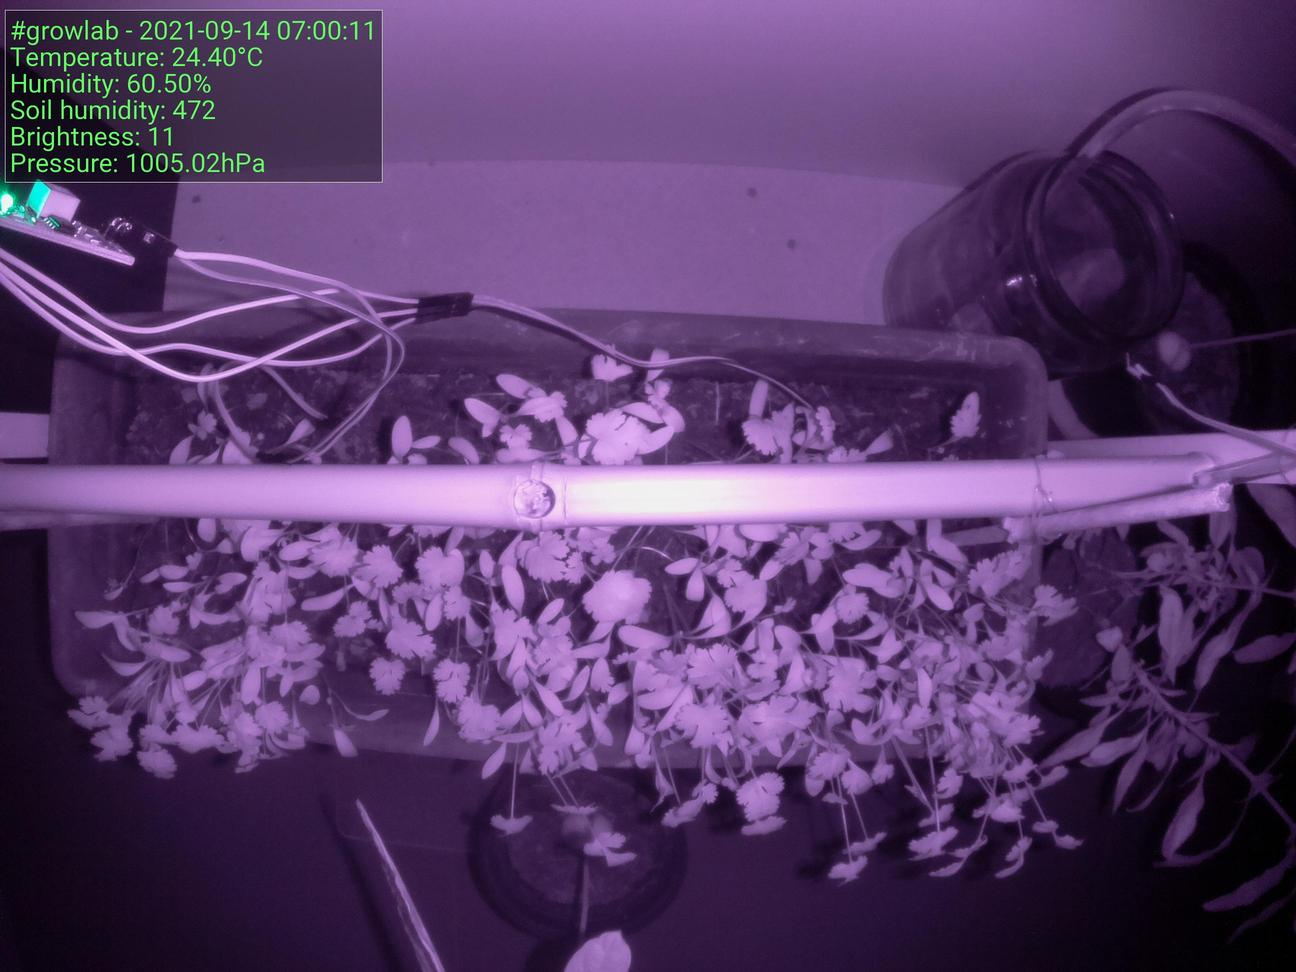
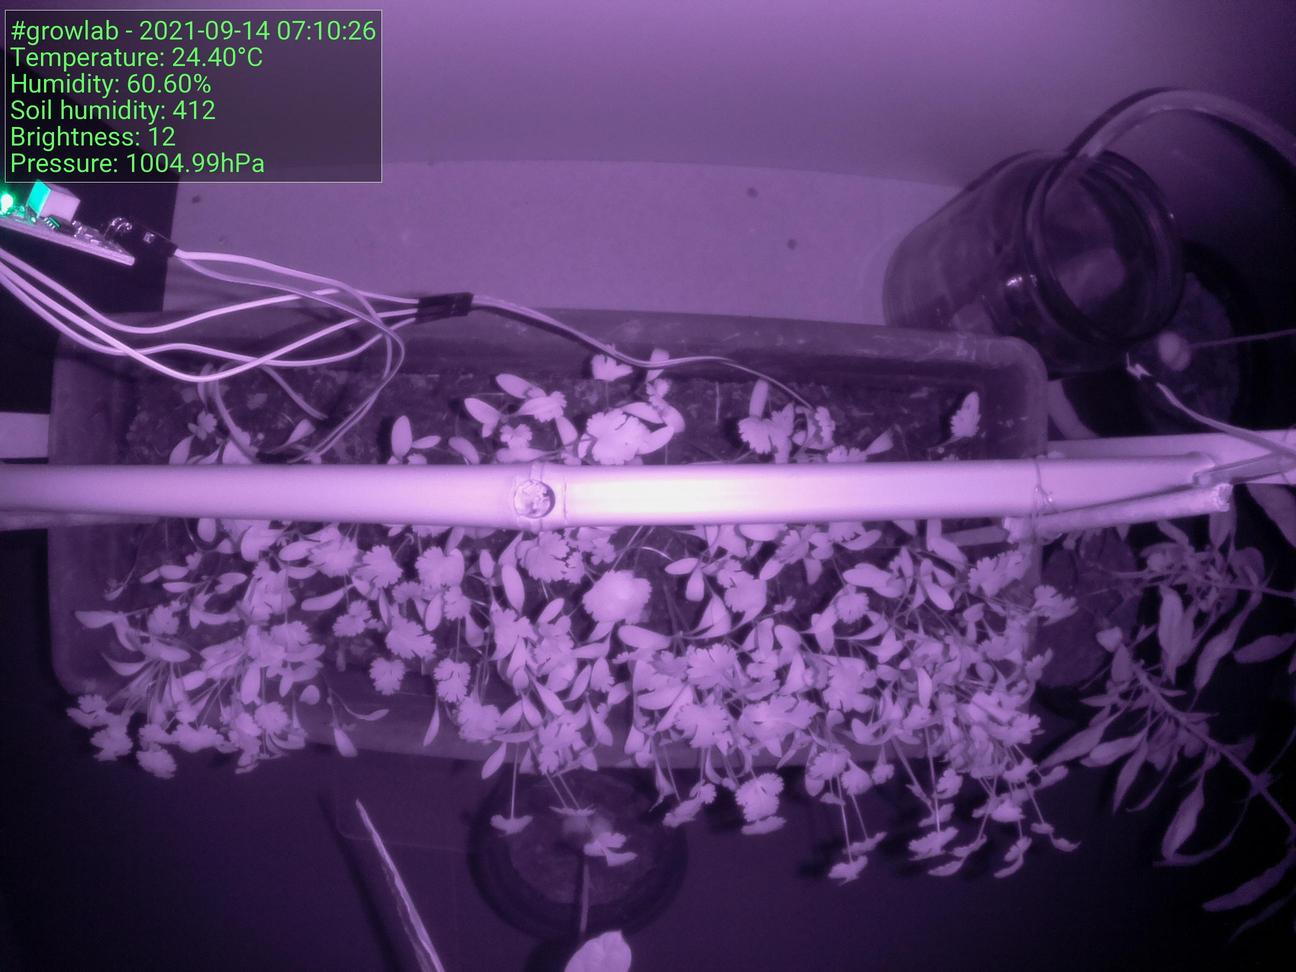
:bento: Update preview

diff --git a/index.html b/index.html
@@ -39,7 +39,7 @@
                     <tbody>
                         <tr>
                             <td>Time</td>
-                            <td>2021-09-14 07:00:11</td>
+                            <td>2021-09-14 07:10:26</td>
                         </tr>
                         <tr>
                             <td>Temperature</td>
@@ -47,7 +47,7 @@
                         </tr>
                         <tr>
                             <td>Humidity</td>
-                            <td>60.50%</td>
+                            <td>60.60%</td>
                         </tr>
                     </tbody>
                 </table>
@@ -55,7 +55,7 @@
 
                 <h5>Latest image</h5>
 		<div style="width: 85%;">
-	                <img class="figure-img img-fluid rounded" src="./preview.jpg?uid=1631595619.398404">
+	                <img class="figure-img img-fluid rounded" src="./preview.jpg?uid=1631596233.4977367">
 		</div>
             </div>
         </div>
